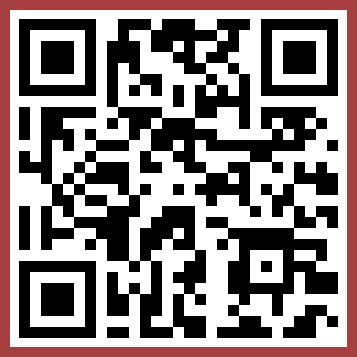
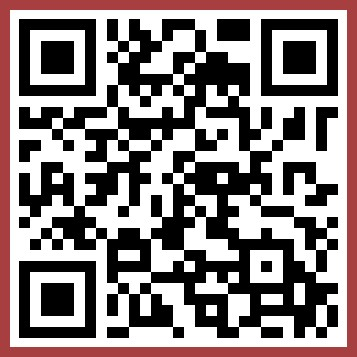
qr수정

Changed region(s): [[0.0308, 0.0308, 0.9552, 0.9552]]

diff --git a/index.html b/index.html
@@ -514,7 +514,7 @@
                                     </div><!-- top_wrap -->
                                     <div class="btn_wrap gs_reveal">
                                         <button><a href="https://yoon4180.github.io/SOCAR/" target="_blank">Go Web</a></button>
-                                        <img src="img/socar_QR.jpg" alt="쏘카 QR">
+                                        <img src="img/socarQR.jpg" alt="쏘카 QR">
                                     </div><!-- btn_wrap -->
                                 </div><!-- content_inner -->
                             </div><!-- content -->

diff --git a/css/main.css b/css/main.css
@@ -315,6 +315,11 @@
     height: 3.6rem;
     object-fit: cover;
     display: block;
+    transition: all 0.2s ease;
+}
+
+#section1 .card .inner .info .item2 .icon_wrap img:hover {
+    transform: scale(1.2);
 }
 
 #section1 .card .inner .info h2 {
